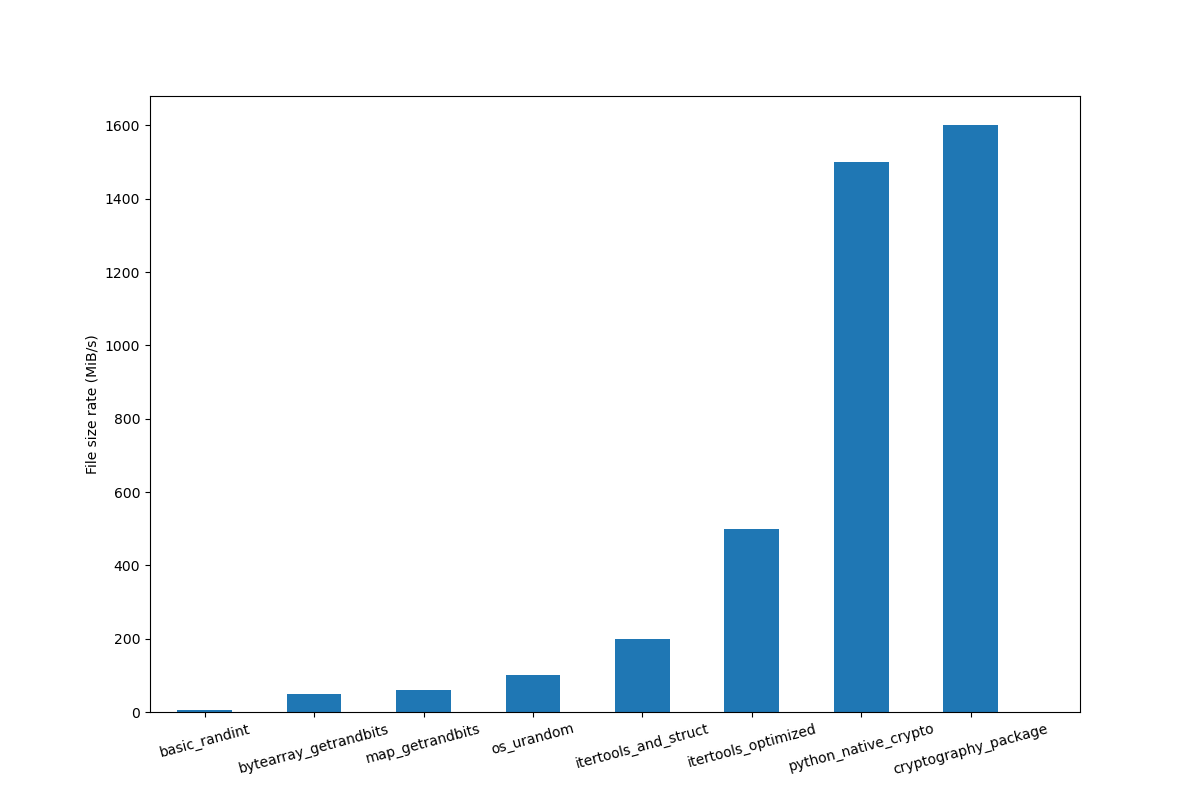
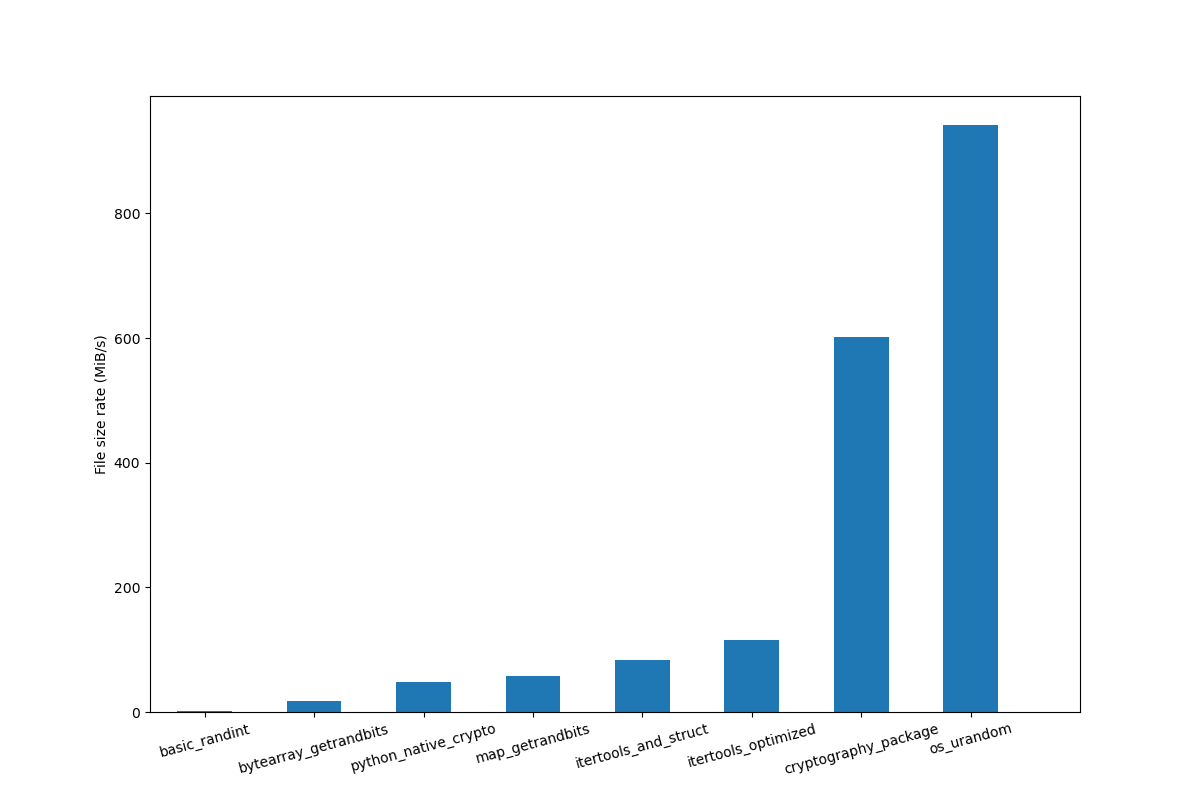
Update benchmark results

diff --git a/modules/benchmark_common_functions.py b/modules/benchmark_common_functions.py
@@ -90,8 +90,8 @@ def benchmark_entry_function(config):
         print("[{}] Finish generator: {}".format(time_stamp(), generator_name))
     sorted_final_time_list = sorted(final_time_list, key=lambda x: x[3])
     text_output_file_name = "benchmark_result.csv"
-    benchmark_text_output(sorted_final_time_list, text_output_file_name, benchmark_file_output_folder)
+    benchmark_text_output(sorted_final_time_list, text_output_file_name, benchmark_output_folder)
     if plt is not None:
         figure_name = "benchmark_result.png"
-        benchmark_plotting(sorted_final_time_list, figure_name, benchmark_file_output_folder)
+        benchmark_plotting(sorted_final_time_list, figure_name, benchmark_output_folder)
         plt.show()

diff --git a/config.py b/config.py
@@ -1,7 +1,7 @@
 ######################### Common settings ################################
 
 # Number of files that need to generate.
-current_file_num = 200
+current_file_num = 300
 
 # Size of each file. Only the 'current_file_size' will be read, and its unit is byte.
 current_file_size_mib = 25  # Size unit is MiB

diff --git a/README.md b/README.md
@@ -19,7 +19,7 @@ Most methods just rely on basic python package. This requirement also mark speci
 | `itertools_and_struct`  | None |
 | `itertools_optimized`  | None |
 | `python_native_crypto`  | None |
-| `cryptography_package`  | `cryptography_package` |
+| `cryptography_package`  | `cryptography` |
 
 
 ## Usages
